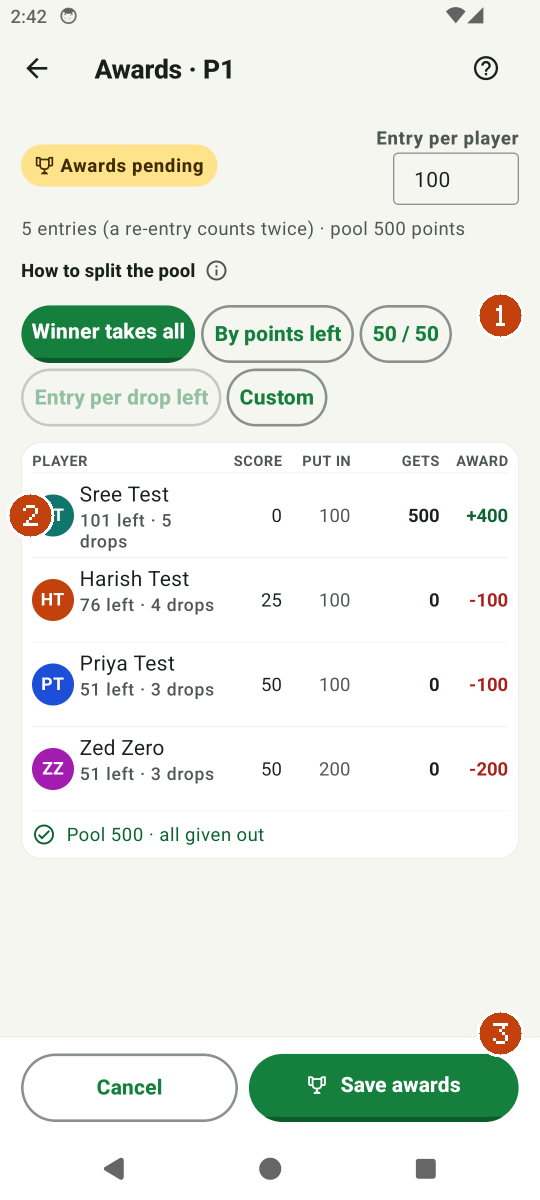
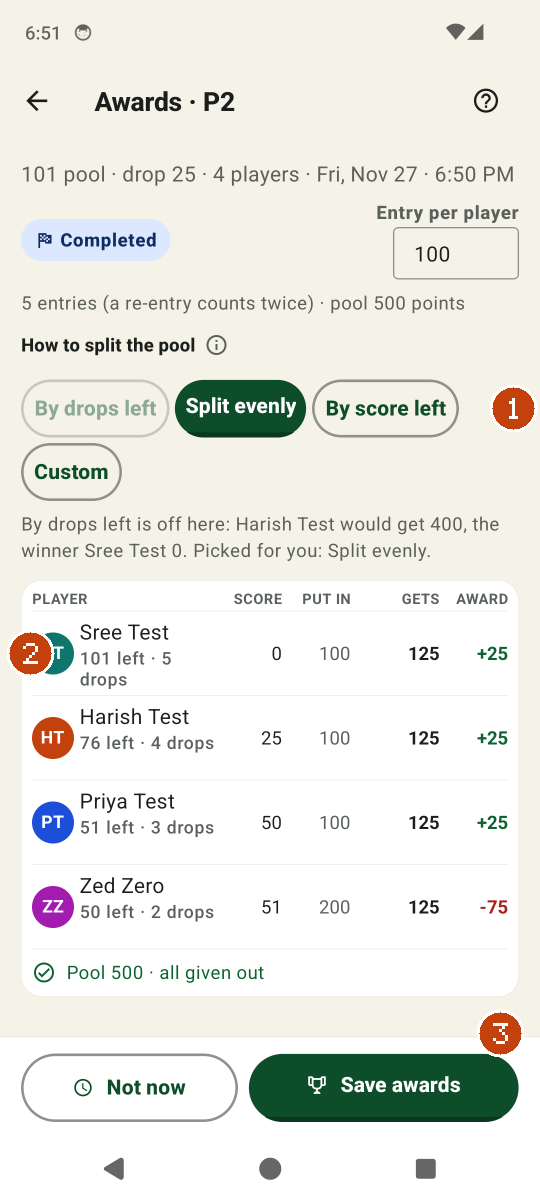
Awards: four chips (D128, D129) — By drops left first, Split evenly, By score left, Custom (#175)
* Awards: four chips (D128) — By drops left first, Split evenly when drops is off (said why on screen), By score left, Custom; Winner takes all and 50 / 50 gone

* Docs: D129 (By score left; the APK waits for the awards chips); Q52 answered; pre-APK row 8c

* Docs: the awards PR is #175

* Awards: one line names the game above the table (101 pool · drop 25 · players · date; D133 b)

* Docs: no ask without a number (D132, tests/asks-have-numbers); Sree's answers to the audit (D133); freeze after his review (D134); premium Home (D135); D75–D77, D96, Q20–Q27, Q30, Q41–Q44 brought to main; Q53–Q60

* Help: Awards picture from the four-chip screen (CI run 46049391884, frame 16m)

---------

diff --git a/rummy-home3/tests/pool-pr13.test.ts b/rummy-home3/tests/pool-pr13.test.ts
@@ -29,7 +29,7 @@ import {
   resultScoresOf,
   validatePoolRound,
 } from '../utils/pool';
-import { AWARD_PRESETS, awardsPayload, buildAwardSheet, getsFromAwards, givenOutText, NOT_VIABLE_TEXT, presetGets, presetViability, saveAnywayText, viablePresets, winnerGetsMost, winnersOf } from '../utils/poolAwards';
+import { AWARD_PRESETS, awardsGameLine, awardsPayload, buildAwardSheet, chipForSaved, defaultPreset, getsFromAwards, givenOutText, NOT_VIABLE_TEXT, presetGets, presetViability, saveAnywayText, viablePresets, winnerGetsMost, winnersOf } from '../utils/poolAwards';
 import {
   allRulesFromProfileDefaults,
   DEFAULT_POOL_RULES,
@@ -170,17 +170,19 @@ test('13.4b after a round: who went out, who may re-enter, last player standing'
 
 // ---------- Awards (13.5) ----------
 
-test('13.5 award presets: winner takes all / by points left / 50-50 / entry per drop left / custom; remainders to the winner', () => {
+test('13.5 award presets (D128): by drops left / split evenly / by score left / custom; remainders to the winner', () => {
   const standings = poolStandings(game());
   const inputs = { standings, entry: 100, limit: 101, drop: 25 };
   assert.deepEqual(winnersOf(standings), [A]);
   // 7 entries (E counts twice) × 100 = 700.
-  const winner = buildAwardSheet('winner', inputs, presetGets('winner', inputs));
-  assert.equal(winner.poolTotal, 700);
-  assert.equal(winner.givenOut, 700);
-  assert.equal(winner.rows.find((r) => r.playerId === A)!.award, 600);
-  assert.equal(winner.rows.find((r) => r.playerId === E)!.award, -200, 'a re-entry put in twice');
-  assert.equal(winner.rows.reduce((s, r) => s + r.award, 0), 0, 'a full pool handed out adds to 0');
+  // Split evenly: A, B, C and E are still in → 175 each; D and F are out.
+  const even = buildAwardSheet('even', inputs, presetGets('even', inputs));
+  assert.equal(even.poolTotal, 700);
+  assert.equal(even.givenOut, 700);
+  assert.deepEqual(presetGets('even', inputs), { [A]: 175, [B]: 175, [C]: 175, [D]: 0, [E]: 175, [F]: 0 });
+  assert.equal(even.rows.find((r) => r.playerId === A)!.award, 75);
+  assert.equal(even.rows.find((r) => r.playerId === E)!.award, -25, 'a re-entry put in twice');
+  assert.equal(even.rows.reduce((s, r) => s + r.award, 0), 0, 'a full pool handed out adds to 0');
 
   const left = presetGets('left', inputs);
   // Points left among players in: A 34, B 6, C 1, E 0 → 41.
@@ -189,11 +191,6 @@ test('13.5 award presets: winner takes all / by points left / 50-50 / entry per 
   assert.equal(left[A], 700 - left[B] - left[C], 'the rounding remainder goes to the winner');
   assert.equal(left[E], 0);
   assert.equal(Object.values(left).reduce((s, v) => s + v, 0), 700);
-
-  const split = presetGets('split', inputs);
-  assert.equal(split[A], 350);
-  assert.equal(split[B], 350, 'the two lowest still in');
-  assert.equal(split[C], 0);
 
   const drops = presetGets('drops', inputs);
   assert.equal(drops[B], 100, '6 left = 1 drop = 1 entry');
@@ -209,7 +206,7 @@ test('13.5 award presets: winner takes all / by points left / 50-50 / entry per 
   assert.equal(givenOutText(sheet).tone, 'under');
   assert.equal(givenOutText(sheet).text, 'Pool 700 · 600 given out · 100 not given out');
   assert.equal(saveAnywayText(sheet), "100 points weren't given out. Save awards anyway?");
-  assert.equal(saveAnywayText(winner), null);
+  assert.equal(saveAnywayText(even), null);
   const over = buildAwardSheet('custom', inputs, { [A]: 800 });
   assert.equal(saveAnywayText(over), '100 points more than the pool were given out. Save awards anyway?');
 
@@ -217,14 +214,19 @@ test('13.5 award presets: winner takes all / by points left / 50-50 / entry per 
   assert.deepEqual(payload.awards, { [A]: 300, [B]: 100, [E]: -200, [C]: -100, [D]: -100, [F]: -100 });
   assert.deepEqual(payload.note, { preset: 'custom', presetLabel: 'Custom', entry: 100, poolTotal: 700, givenOut: 600 });
   assert.deepEqual(getsFromAwards(payload.awards, standings, 100), { [A]: 400, [B]: 200, [E]: 0, [C]: 0, [D]: 0, [F]: 0 }, 'reopening the screen rebuilds Gets');
-  assert.deepEqual(AWARD_PRESETS.map((p) => p.label), ['Winner takes all', 'By points left', '50 / 50', 'Entry per drop left', 'Custom']);
+  assert.deepEqual(AWARD_PRESETS.map((p) => p.label), ['By drops left', 'Split evenly', 'By score left', 'Custom'], 'D128: four chips, Winner takes all and 50 / 50 gone');
+  assert.equal(defaultPreset(inputs), 'drops', 'D128: By drops left is picked first when it is fair to the winner');
+  assert.equal(chipForSaved('winner'), 'custom', 'awards saved as Winner takes all reopen as Custom with their numbers');
+  assert.equal(chipForSaved('split'), 'custom');
+  assert.equal(chipForSaved('left'), 'left');
+  assert.equal(chipForSaved(undefined), 'custom');
 });
 
-test('13.5c F13.23 the lowest score gets the most: Entry per drop left is refused when the drop entries leave the winner level or behind', () => {
+test('13.5c F13.23 the lowest score gets the most: By drops left is refused when the drop entries leave the winner level or behind', () => {
   // The P12 pool: B and C have one drop left each (100 + 100 of 700), A keeps 500 → viable.
   const inputs = { standings: poolStandings(game()), entry: 100, limit: 101, drop: 25 };
   assert.equal(presetViability('drops', inputs).viable, true);
-  assert.deepEqual(viablePresets(inputs), { winner: true, left: true, split: true, drops: true, custom: true });
+  assert.deepEqual(viablePresets(inputs), { drops: true, even: true, left: true, custom: true });
 
   // Four players in, nobody out, early in the pool: 4 + 3 + 3 drops left eat 1000 of a 400 pool → the winner gets 0.
   const early = {
@@ -240,8 +242,9 @@ test('13.5c F13.23 the lowest score gets the most: Entry per drop left is refuse
   assert.equal(check.viable, false);
   assert.equal(check.winnerGets, 0);
   assert.ok(check.rival && drops[check.rival] >= 300, 'the rival named is the one who gets the most');
-  assert.deepEqual(viablePresets(earlyInputs), { winner: true, left: true, split: true, drops: false, custom: true },
-    'the other presets stay: Winner takes all and By points left always put the winner first; 50 / 50 levels second place by design');
+  assert.deepEqual(viablePresets(earlyInputs), { drops: false, even: true, left: true, custom: true },
+    'the other presets stay: By score left always puts the winner first; Split evenly levels everyone still in by design');
+  assert.equal(defaultPreset(earlyInputs), 'even', 'D128: Split evenly is picked for you when By drops left is off');
 
   // Level is not enough: three in, one drop left each → 100 + 100 of 300 leaves the winner 100 = the others.
   const level = {
@@ -264,18 +267,17 @@ test('13.5c F13.23 the lowest score gets the most: Entry per drop left is refuse
   const outsInputs = { standings: poolStandings(withOuts), entry: 100, limit: 101, drop: 25 };
   assert.equal(presetGets('drops', outsInputs)[A], 300);
   assert.equal(presetViability('drops', outsInputs).viable, true);
+  // Split evenly: 500 among A, B and C → 166 each, the remainder 2 to the winner.
+  assert.deepEqual(presetGets('even', outsInputs), { [A]: 168, [B]: 166, [C]: 166, [D]: 0, [E]: 0 });
 
-  // 50 / 50 and ties: the second place is level by design (≥ allowed); anyone else ahead of the winner is not.
-  // Q13.25 (Sree, Nov 15): the even split is a deliberate exception to "the winner gets the most" — always offered.
-  assert.equal(presetViability('split', earlyInputs).viable, true, 'Q13.25: 50 / 50 is never greyed');
-  assert.equal(presetViability('split', inputs).viable, true, 'Q13.25: not on the P12 pool either');
-  const splitGets = presetGets('split', earlyInputs);
-  const [first, second] = [...earlyInputs.standings].filter((s) => !s.out).sort((a, b) => a.total - b.total);
-  assert.equal(splitGets[first.playerId], splitGets[second.playerId], 'Q13.25: the two lowest still in get the same');
+  // Split evenly and ties: everyone still in is level by design (≥ allowed), like Q13.25's 50 / 50; it is the fallback, never greyed.
+  assert.equal(presetViability('even', earlyInputs).viable, true, 'Split evenly is never greyed');
+  assert.equal(presetViability('even', inputs).viable, true, 'not on the P12 pool either');
+  assert.deepEqual(presetGets('even', earlyInputs), { [A]: 100, [B]: 100, [C]: 100, [D]: 100 }, 'four still in share 400 equally');
   const tied = { ...early, scores: { [A]: [0, 10], [B]: [10, 0], [C]: [15, 20], [D]: [30, 10] } } as unknown as Game;
   const tiedInputs = { standings: poolStandings(tied), entry: 100, limit: 101, drop: 25 };
   assert.deepEqual(winnersOf(tiedInputs.standings), [A, B], 'co-winners');
-  assert.equal(presetViability('winner', tiedInputs).viable, true, 'co-winners share and are compared as a group');
+  assert.equal(presetViability('even', tiedInputs).viable, true, 'co-winners share and are compared as a group');
   assert.equal(presetViability('left', tiedInputs).viable, true);
 
   // Custom is never blocked; the screen warns from the same check.
@@ -293,6 +295,9 @@ test('13.5c F13.23 the lowest score gets the most: Entry per drop left is refuse
   assert.ok(screen.includes('NOT_VIABLE_TEXT') && screen.includes('viablePresets(inputs)'), 'the Awards screen greys and refuses a non-viable preset');
   assert.ok(screen.includes('award-not-viable-ok'), 'the pop-up has a button the flow can tap');
   assert.ok(screen.includes("preset === 'custom' ? winnerGetsMost(gets, standings)"), 'Custom warns instead of blocking');
+  assert.ok(screen.includes('defaultPreset(first)'), 'D128: a first Awards visit starts on By drops left, or Split evenly when drops is off');
+  assert.ok(screen.includes('chipForSaved(game.awardNote?.preset)'), 'saved awards reopen on their chip; retired presets as Custom');
+  assert.ok(screen.includes('testID="award-drops-off"') && screen.includes('Picked for you: Split evenly.'), 'D128: why By drops left is off, said on the screen');
 });
 
 test('13.5b award wording never mentions money, expenses, stake or prize', () => {
@@ -592,4 +597,14 @@ test('13.12 log labels for the pool kinds; help explains Complete → Award → 
   assert.match(HELP.awards, /award/i);
   assert.match(HELP.awards, /Not now leaves the pool Completed without awards/);
   assert.match(HELP.results, /Give awards first/);
+});
+
+test('13.5d Awards names the game above the table (Sree, Nov 21: "show the game name and how much it was played for")', () => {
+  const when = new Date(new Date().getFullYear(), 10, 27, 16, 58);
+  const day = when.toLocaleDateString('en-US', { weekday: 'short' });
+  assert.equal(awardsGameLine({ limit: 101, drop: 25, players: 5, when: when.toISOString() }), `101 pool · drop 25 · 5 players · ${day}, Nov 27 · 4:58 PM`);
+  assert.equal(awardsGameLine({ limit: 201, drop: 20, players: 1 }), '201 pool · drop 20 · 1 player');
+  const award = src('app/(screens)/games/award.tsx');
+  assert.match(award, /testID="award-game-line"/);
+  assert.match(award, /awardsGameLine\(\{ limit: inputs\.limit, drop: inputs\.drop, players: standings\.length, when: game\.date \}\)/);
 });

diff --git a/rummy-home3/utils/poolAwards.ts b/rummy-home3/utils/poolAwards.ts
@@ -1,4 +1,5 @@
 import { AwardNote } from '@/types/game';
+import { formatWhen } from '@/utils/formatWhen';
 import { PoolStanding, dropsLeft } from '@/utils/pool';
 
 /**
@@ -8,17 +9,22 @@ import { PoolStanding, dropsLeft } from '@/utils/pool';
  * entries, pool and awards are points.
  */
 
-export type AwardPreset = 'winner' | 'left' | 'split' | 'drops' | 'custom';
+/** The four chips (D128). `winner` and `split` are the retired Winner takes all and 50 / 50: they live on only in
+ * awards saved before Nov 27, whose note keeps its own label; the screen reopens such awards as Custom. */
+export type AwardPreset = 'drops' | 'even' | 'left' | 'custom';
 
 export const AWARD_PRESETS: { key: AwardPreset; label: string; hint: string }[] = [
-  { key: 'winner', label: 'Winner takes all', hint: 'The lowest score still in gets the whole pool.' },
-  { key: 'left', label: 'By points left', hint: 'Players still in share the pool in proportion to the points they have left.' },
-  { key: 'split', label: '50 / 50', hint: 'The two lowest scores still in split the pool evenly.' },
-  { key: 'drops', label: 'Entry per drop left', hint: 'Each player still in gets one entry per drop they have left; the winner gets the rest.' },
+  { key: 'drops', label: 'By drops left', hint: 'Each player still in gets one entry per drop they have left; the winner gets the rest.' },
+  { key: 'even', label: 'Split evenly', hint: 'Players still in share the pool equally; one left takes it all.' },
+  { key: 'left', label: 'By score left', hint: 'Players still in share the pool in proportion to the score they have left before the limit.' },
   { key: 'custom', label: 'Custom', hint: 'Type what each player gets.' },
 ];
 
 export const presetLabel = (preset: AwardPreset) => AWARD_PRESETS.find((p) => p.key === preset)?.label ?? 'Custom';
+
+/** A saved note's preset as a chip: the retired presets reopen as Custom, with the saved numbers. */
+export const chipForSaved = (saved: string | undefined): AwardPreset =>
+  AWARD_PRESETS.some((p) => p.key === saved) ? (saved as AwardPreset) : 'custom';
 
 export type AwardRow = {
   playerId: string;
@@ -75,11 +81,10 @@ export function presetGets(preset: AwardPreset, { standings, entry, limit, drop 
 
   if (preset === 'custom') return { ...zero, ...previous };
 
-  if (preset === 'winner') return { ...zero, ...splitEvenly(poolTotal, winners) };
-
-  if (preset === 'split') {
-    const top = [...inRows].sort((a, b) => a.total - b.total).slice(0, 2).map((s) => s.playerId);
-    return { ...zero, ...splitEvenly(poolTotal, top.length ? top : winners) };
+  if (preset === 'even') {
+    // Lowest score first, so the rounding remainder goes to the winner (F13.6).
+    const ids = [...inRows].sort((a, b) => a.total - b.total).map((s) => s.playerId);
+    return { ...zero, ...splitEvenly(poolTotal, ids.length ? ids : winners) };
   }
 
   if (preset === 'left') {
@@ -120,7 +125,7 @@ export type WinnerCheck = {
 /**
  * F13.23: the lowest score must get the most. Co-winners (tied lowest, F13.6) share equally and are
  * compared as a group; `equals` names players a preset deliberately puts level with the winner
- * (50 / 50's second place), who are compared with ≥ instead of >.
+ * (everyone still in under Split evenly), who are compared with ≥ instead of >.
  */
 export function winnerGetsMost(gets: Record<string, number>, standings: PoolStanding[], equals: string[] = []): WinnerCheck {
   const winners = winnersOf(standings);
@@ -136,21 +141,19 @@ export function winnerGetsMost(gets: Record<string, number>, standings: PoolStan
   return { ok: winnerGets >= 0 && rival === null, rival, winnerGets, rivalGets };
 }
 
-/** Who a preset deliberately puts level with the winner: 50 / 50's second place; nobody otherwise. */
+/** Who a preset deliberately puts level with the winner: everyone still in under Split evenly; nobody otherwise. */
 function levelWithWinner(preset: AwardPreset, standings: PoolStanding[]): string[] {
-  if (preset !== 'split') return [];
-  const inRows = standings.filter((s) => !s.out);
+  if (preset !== 'even') return [];
   const winners = winnersOf(standings);
-  return [...inRows].sort((a, b) => a.total - b.total).slice(0, 2).map((s) => s.playerId).filter((id) => !winners.includes(id));
+  return standings.filter((s) => !s.out && !winners.includes(s.playerId)).map((s) => s.playerId);
 }
 
 /**
- * Which presets may be picked for this pool (F13.23). Winner takes all and By points left always
- * pass (the lowest score has the most points left); 50 / 50 passes with the second place level by
- * design (Q13.25, Sree Nov 15: the even split is a deliberate exception to "the winner gets the most" and is
- * never greyed); Entry per drop left fails when the others' drop entries leave the winner less than, or
- * equal to, any of them (or nothing at all). Custom is the admin's own numbers: never blocked, the
- * screen warns instead (`winnerGetsMost` on the typed sheet).
+ * Which presets may be picked for this pool (F13.23). By score left always passes (the lowest score has
+ * the most left); Split evenly passes with everyone still in level by design (like Q13.25's 50 / 50, it is
+ * never greyed: it is the fallback); By drops left fails when the others' drop entries leave the winner
+ * less than, or equal to, any of them (or nothing at all). Custom is the admin's own numbers: never
+ * blocked, the screen warns instead (`winnerGetsMost` on the typed sheet).
  */
 export function presetViability(preset: AwardPreset, inputs: Inputs): WinnerCheck & { viable: boolean } {
   if (preset === 'custom') return { ok: true, viable: true, rival: null, winnerGets: 0, rivalGets: 0 };
@@ -162,6 +165,11 @@ export function viablePresets(inputs: Inputs): Record<AwardPreset, boolean> {
   return Object.fromEntries(AWARD_PRESETS.map((p) => [p.key, presetViability(p.key, inputs).viable])) as Record<AwardPreset, boolean>;
 }
 
+/** D128: By drops left when it is fair to the winner, otherwise Split evenly. */
+export function defaultPreset(inputs: Inputs): AwardPreset {
+  return presetViability('drops', inputs).viable ? 'drops' : 'even';
+}
+
 export function buildAwardSheet(preset: AwardPreset, inputs: Inputs, gets: Record<string, number>): AwardSheet {
   const poolTotal = inputs.entry * sum(inputs.standings.map((s) => s.entries));
   const rows = inputs.standings.map((s) => {
@@ -169,6 +177,14 @@ export function buildAwardSheet(preset: AwardPreset, inputs: Inputs, gets: Recor
     return { playerId: s.playerId, total: s.total, out: s.out, entries: s.entries, gets: g, award: g - s.entries * inputs.entry };
   });
   return { preset, entry: inputs.entry, poolTotal, givenOut: sum(rows.map((r) => r.gets)), rows };
+}
+
+/** The line above the Awards table, so the screen says which game it is: "101 pool · drop 25 · 5 players · Fri, Nov 27 · 4:58 PM".
+ * The limit leads ("101 pool", as players say it) so it is not read as the pool total of the line under the table. */
+export function awardsGameLine(game: { limit: number; drop: number; players: number; when?: string | null }): string {
+  const parts = [`${game.limit} pool`, `drop ${game.drop}`, `${game.players} ${game.players === 1 ? 'player' : 'players'}`];
+  if (game.when) parts.push(formatWhen(game.when));
+  return parts.join(' · ');
 }
 
 /** The line under the table: what was handed out against the pool (D9 wording, never money). */

diff --git a/rummy-home3/app/(screens)/games/award.tsx b/rummy-home3/app/(screens)/games/award.tsx
@@ -16,7 +16,7 @@ import { SeatAvatar } from '@/components/ui/SeatAvatar';
 import { Tag } from '@/components/ui/Tag';
 import { formatSupabaseError } from '@/utils/supabaseErrors';
 import { DEFAULT_POOL_ENTRY, DEFAULT_POOL_VALUES, isPoolGame, poolLimitOf, poolStandings } from '@/utils/pool';
-import { AWARD_PRESETS, AwardPreset, NOT_VIABLE_TEXT, awardsPayload, buildAwardSheet, getsFromAwards, givenOutText, presetGets, saveAnywayText, signedPoints, viablePresets, winnerGetsMost } from '@/utils/poolAwards';
+import { AWARD_PRESETS, AwardPreset, NOT_VIABLE_TEXT, awardsGameLine, awardsPayload, buildAwardSheet, chipForSaved, defaultPreset, getsFromAwards, givenOutText, presetGets, presetViability, saveAnywayText, signedPoints, viablePresets, winnerGetsMost, winnersOf } from '@/utils/poolAwards';
 import { afterAwardsRoute } from '@/utils/endFlow';
 import { seatLabels } from '@/utils/initials';
 import { screenTitle } from '@/utils/gameLabel';
@@ -30,7 +30,7 @@ import { screenTitle } from '@/utils/gameLabel';
  * Save or Not now; opened from the scorecard or the Results picker it returns to its caller. No
  * Results button here — Results is its own errand from Home.
  */
-/** Mini help (PR 11): the five presets and the formula, once beside the chips instead of under them. */
+/** Mini help (PR 11): the four presets and the formula, once beside the chips instead of under them. */
 export const SPLIT_TIP = [
   ...AWARD_PRESETS.map((p) => `**${p.label}**: ${p.hint}`),
   'Award = Gets − Put in. The awards are what this pool counts for if it is ever added to Results.',
@@ -46,7 +46,7 @@ export default function AwardScreen() {
   const { insets } = useLayout();
   const { game, setGame, players, canScore, loading, error, reload } = useGameRoster(typeof id === 'string' ? id : undefined);
 
-  const [preset, setPreset] = useState<AwardPreset>('winner');
+  const [preset, setPreset] = useState<AwardPreset>('drops');
   const [entryText, setEntryText] = useState(String(DEFAULT_POOL_ENTRY));
   const [gets, setGets] = useState<Record<string, number>>({});
   const [customText, setCustomText] = useState<Record<string, string>>({});
@@ -63,20 +63,22 @@ export default function AwardScreen() {
     [standings, entry, game?.settings],
   );
 
-  // Reopen with the saved awards when editing; otherwise start on Winner takes all.
+  // Reopen with the saved awards when editing; otherwise start on By drops left, or Split evenly when drops is not fair (D128).
   useEffect(() => {
     if (!game || seededFrom === game.id) return;
     setSeededFrom(game.id);
     if (game.awardedAt && game.prizeShares) {
       const savedEntry = game.awardNote?.entry ?? DEFAULT_POOL_ENTRY;
-      const savedPreset = (game.awardNote?.preset as AwardPreset | undefined) ?? 'custom';
       setEntryText(String(savedEntry));
-      setPreset(savedPreset);
+      setPreset(chipForSaved(game.awardNote?.preset));
       const saved = getsFromAwards(game.prizeShares, standings, savedEntry);
       setGets(saved);
       setCustomText(Object.fromEntries(Object.entries(saved).map(([k, v]) => [k, String(v)])));
     } else {
-      setGets(presetGets('winner', { ...inputs, entry: DEFAULT_POOL_ENTRY }));
+      const first = { ...inputs, entry: DEFAULT_POOL_ENTRY };
+      const pick = defaultPreset(first);
+      setPreset(pick);
+      setGets(presetGets(pick, first));
     }
   }, [game, seededFrom, standings, inputs]);
 
@@ -92,6 +94,7 @@ export default function AwardScreen() {
   // refused with a pop-up; Custom is the admin's own numbers, so it only warns.
   const viable = useMemo(() => viablePresets(inputs), [inputs]);
   const customCheck = preset === 'custom' ? winnerGetsMost(gets, standings) : null;
+  const dropsCheck = viable.drops ? null : presetViability('drops', inputs);
 
   const pickPreset = (next: AwardPreset) => {
     if (!viable[next]) {
@@ -178,6 +181,9 @@ export default function AwardScreen() {
         contentContainerStyle={[styles.content, { paddingLeft: insets.left + spacing.lg, paddingRight: insets.right + spacing.lg }]}
         keyboardShouldPersistTaps="handled"
       >
+        <Text variant="bodyMedium" style={{ color: colors.onSurfaceVariant }} testID="award-game-line">
+          {awardsGameLine({ limit: inputs.limit, drop: inputs.drop, players: standings.length, when: game.date })}
+        </Text>
         <View style={styles.headerRow}>
           <Tag label={game.awardedAt ? 'Awarded' : 'Completed'} tone="info" icon={game.awardedAt ? 'trophy-outline' : 'flag-checkered'} />
           <View style={styles.entryBox}>
@@ -217,6 +223,11 @@ export default function AwardScreen() {
             </Button>
           ))}
         </View>
+        {dropsCheck && !blocked ? (
+          <Text variant="bodySmall" style={{ color: colors.onSurfaceVariant }} testID="award-drops-off">
+            {`By drops left is off here: ${nameOf(dropsCheck.rival ?? '')} would get ${dropsCheck.rivalGets}, the winner ${nameOf(winnersOf(standings)[0] ?? '')} ${dropsCheck.winnerGets}.${preset === 'even' && !game.awardedAt ? ' Picked for you: Split evenly.' : ''}`}
+          </Text>
+        ) : null}
         {customCheck && !customCheck.ok ? (
           <View style={styles.warnRow}>
             <Icon source="alert-outline" size={16} color={colors.loss} />

diff --git a/rummy-home3/constants/helpTopics.ts b/rummy-home3/constants/helpTopics.ts
@@ -503,8 +503,8 @@ const topics: Record<HelpTopicKey, Omit<HelpTopic, 'key'>> = {
     icon: 'trophy-outline',
     purpose: 'Who gets what from a completed pool.',
     needToKnow: [
-      'The pool is worth one entry per entry made (a re-entry counts twice). Tap a preset to see who gets what; players are sorted by points left.',
-      '**Winner takes all** · **By points left** · **50/50** · **Entry per drop left** · **Custom** (type each player\u2019s share).',
+      'The pool is worth one entry per entry made (a re-entry counts twice). Tap a preset to see who gets what; players are sorted by score left.',
+      '**By drops left** (picked first) · **Split evenly** · **By score left** · **Custom** (type each player\u2019s share).',
       '**Award** = what a player gets minus their entries. The awards are what this pool counts for if it is ever added to Results.',
       '**Save** works even when the pool is not fully given out; the app asks \u201cSave awards anyway?\u201d first. Awards can be edited until the pool is in a saved result.',
     ],
@@ -516,8 +516,9 @@ const topics: Record<HelpTopicKey, Omit<HelpTopic, 'key'>> = {
       {
         title: 'The presets',
         bullets: [
-          '**Winner takes all**: the last player in gets the whole pool. **By points left**: the players still in share it in proportion to the points they have left.',
-          '**50/50**: the two best share it evenly — a deliberate exception to \u201cby points\u201d. **Entry per drop left**: one entry per drop a player still had; greyed when the pool does not cover it.',
+          '**By drops left**: every player still in gets one entry per drop they have left; the winner gets the rest. With one player left, that player takes the whole pool.',
+          '**Split evenly**: the players still in share the pool equally (two left: half each). The app picks it for you when By drops left would not leave the winner the most, and says why under the presets.',
+          '**By score left**: the players still in share it in proportion to the score they have left before the limit.',
           '**Custom**: type any shares. The line under the list shows what is still not given out.',
         ],
       },
@@ -538,10 +539,11 @@ const topics: Record<HelpTopicKey, Omit<HelpTopic, 'key'>> = {
     tricky: [
       { id: 'give-first', q: 'Results says \u201cGive awards first\u201d.', a: 'A pool adds its awards to a result, not its scores. Open the pool\u2019s scorecard and tap **Give awards**; then tick it in Results.' },
       { id: 'save-anyway', q: '\u201cSave awards anyway?\u201d — is something wrong?', a: 'Part of the pool is not given to anyone. That is allowed (a part kept back on purpose, for example); the dialog only makes sure you meant it.' },
-      { id: 'not-viable', q: 'Why is Entry per drop left grey?', a: 'The players still in have more drops left than the pool has entries, so one entry per drop is not possible. Pick another preset or Custom.' },
+      { id: 'not-viable', q: 'Why is By drops left grey?', a: 'The others\u2019 drop entries would leave the winner with no more than them, so the app picks Split evenly instead and says why under the presets. Pick another preset or Custom if you prefer.' },
+      { id: 'top-two', q: 'How do I pay only the top two?', a: 'Pick **Custom** and type what each player gets; the line under the list shows what is still not given out.' },
     ],
     alsoSee: ['after-last-round', 'results', 'scorecard'],
-    aliases: ['give awards', 'pool awards', 'winner takes all', 'custom'],
+    aliases: ['give awards', 'pool awards', 'winner takes all', 'split evenly', 'by drops left', 'custom'],
   },
 
   'game-log': {

diff --git a/rummy-home3/types/game.ts b/rummy-home3/types/game.ts
@@ -34,7 +34,8 @@ export type PoolSeat = {
 
 /** Pool (041): what the awards were based on, saved beside them. */
 export type AwardNote = {
-  preset?: 'winner' | 'left' | 'split' | 'drops' | 'custom';
+  /** 'winner' and 'split' only in awards saved before D128 (Nov 27). */
+  preset?: 'drops' | 'even' | 'left' | 'custom' | 'winner' | 'split';
   presetLabel?: string;
   entry?: number;
   poolTotal?: number;
